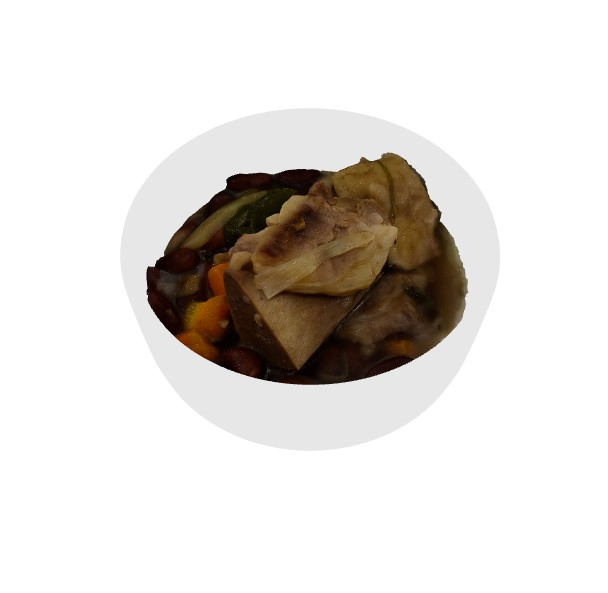
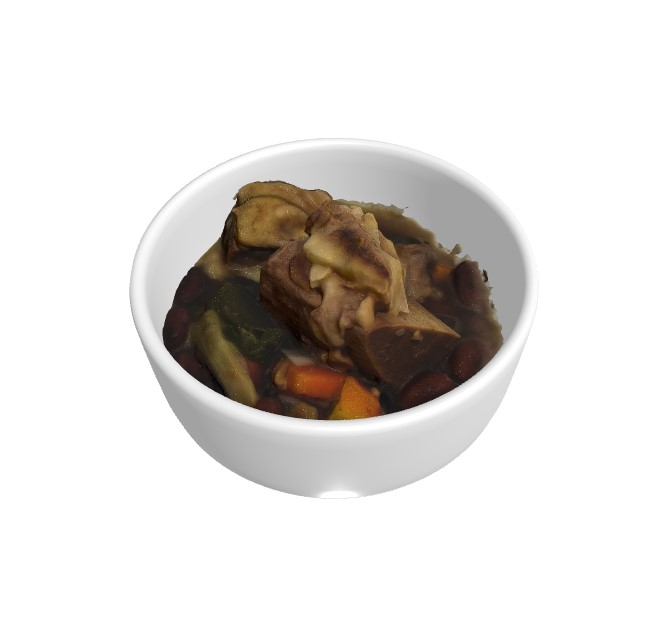
modify canvas lighting + update image

diff --git a/src/facades/FoodOrbitCanvas.tsx b/src/facades/FoodOrbitCanvas.tsx
@@ -49,12 +49,19 @@ export default class FoodOrbitCanvas {
         new MeshStandardMaterial({ color: new Color('gray') }),
       )),
     );
-    this.scene.add(new AmbientLight(0xffffff, 1));
+
+    this.scene.add(new AmbientLight(0xffffff, 0.6));
     const light = new DirectionalLight();
-    light.position.set(10, 10, 10);
+    light.position.set(10, 20, 10);
     light.castShadow = true;
-    // this.scene.add(light);
-    // this.scene.add(new DirectionalLightHelper(light));
+    this.scene.add(light);
+    this.scene.add(new DirectionalLightHelper(light));
+
+    const dLight = new DirectionalLight(0xffffff, 0.125);
+    dLight.position.set(0, -20, 0);
+    dLight.castShadow = true;
+    this.scene.add(dLight);
+    this.scene.add(new DirectionalLightHelper(dLight));
 
     this.controls = new OrbitControls(this.camera, this.renderer.domElement);
     this.controls.enableDamping = true;
@@ -79,7 +86,17 @@ export default class FoodOrbitCanvas {
       node.castShadow = true;
       node.receiveShadow = true;
       if (node instanceof Mesh) {
-        node.material.roughness = 1;
+        if (
+          node.name.toLowerCase().includes('cylinder') ||
+          node.name.toLowerCase().includes('plate') ||
+          node.name.toLowerCase().includes('cube')
+        ) {
+          node.material.metalness = 0.25;
+          node.material.roughness = 0.25;
+        } else {
+          node.material.metalness = 0;
+          node.material.roughness = 1;
+        }
       }
     });
     model.castShadow = true;
